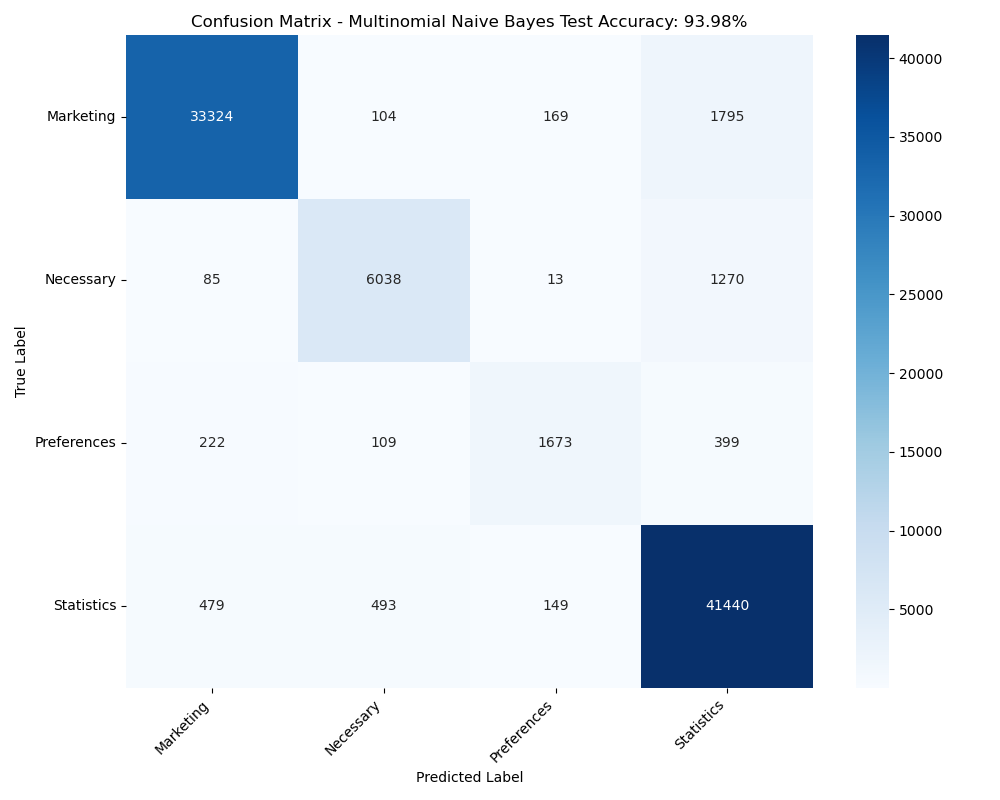
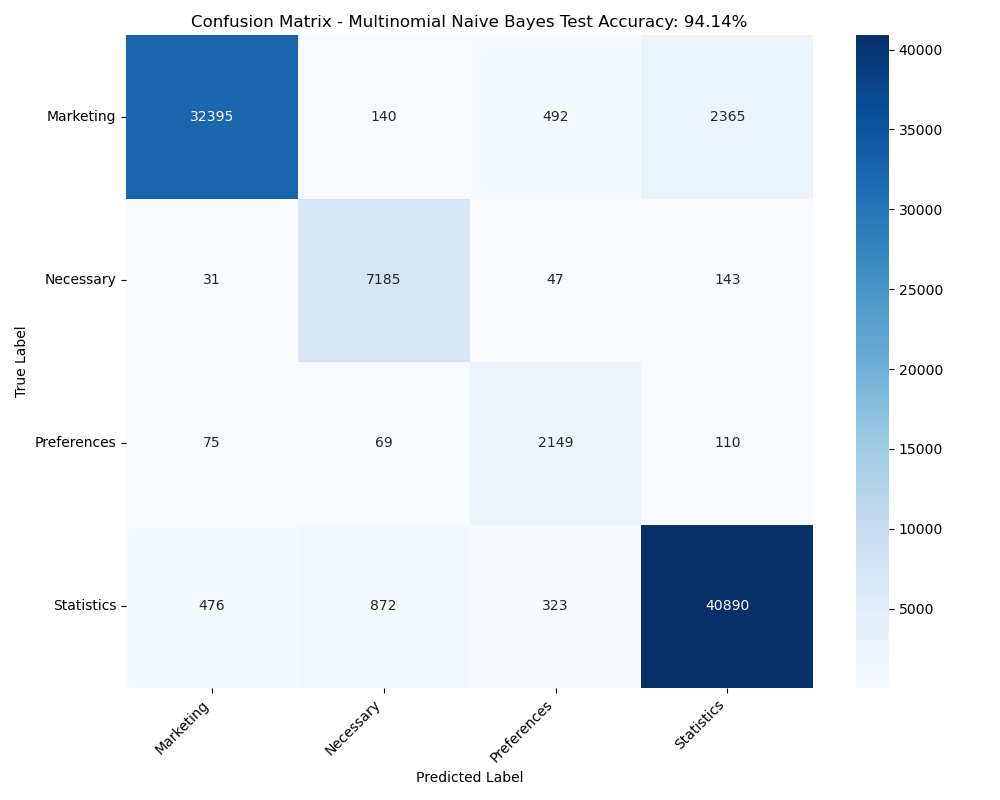
improved mnb by 0.2% with 2 tf-idf

diff --git a/cookie_classifier.py b/cookie_classifier.py
@@ -15,6 +15,8 @@ from sklearn.neural_network import MLPClassifier
 from sklearn.calibration import CalibratedClassifierCV
 from sklearn.feature_selection import SelectKBest, chi2
 from sklearn.decomposition import TruncatedSVD
+from scipy.sparse import hstack
+
 
 rows = []
 with open('classified_cookies.csv', 'r', encoding='utf-8', errors='replace') as f:
@@ -92,7 +94,10 @@ X_test_encoded = tfidf.transform(X_test_text)
 
 print("TF-IDF shape:", X_train_encoded.shape)
 
-
+print(X_train_encoded.dtype)
+X_train_encoded_32 = X_train_encoded.astype("float32")
+print(X_train_encoded_32.dtype)
+X_test_encoded_32 = X_test_encoded.astype("float32")
 
 def evaluate_model(model_name, y_true, y_pred, train_pred):
     train_acc = accuracy_score(y_train, train_pred)
@@ -409,25 +414,44 @@ def evaluate_model(model_name, y_true, y_pred, train_pred):
 # abc_test_pred = abc.predict(X_test_encoded)
 # evaluate_model("Ada Boost Classifier", y_test, abc_test_pred, abc_train_pred)
 
-# print("\n" + "="*80)
-# print("TRYING: Multinomial Naive Bayes")
-# print("="*80)
+print("\n" + "="*80)
+print("TRYING: Multinomial Naive Bayes")
+print("="*80)
 
-# # 93,98%
+# # 94.14%
 
-# selector_mnb = SelectKBest(chi2, k=18500)
-# X_train_small_mnb = selector_mnb.fit_transform(X_train_encoded, y_train)
-# X_test_small_mnb = selector_mnb.transform(X_test_encoded)
+word_vec = TfidfVectorizer(ngram_range=(1,2), min_df=3, sublinear_tf=True)
+char_vec = TfidfVectorizer(analyzer="char_wb", ngram_range=(3,6), min_df=10, sublinear_tf=True)
 
-# mnb = MultinomialNB(alpha=1e-9)
-# mnb.fit(X_train_small_mnb, y_train)
-# mnb_train_pred = mnb.predict(X_train_small_mnb)
-# mnb_test_pred = mnb.predict(X_test_small_mnb)
-# evaluate_model("Multinomial Naive Bayes", y_test, mnb_test_pred, mnb_train_pred)
+Xtr_w = word_vec.fit_transform(X_train_text)
+Xte_w = word_vec.transform(X_test_text)
+
+Xtr_c = char_vec.fit_transform(X_train_text)
+Xte_c = char_vec.transform(X_test_text)
+
+k_word = 18500         
+k_char = 8000         
+
+sel_w = SelectKBest(chi2, k=k_word)
+sel_c = SelectKBest(chi2, k=k_char)
+
+Xtr_ws = sel_w.fit_transform(Xtr_w, y_train)
+Xte_ws = sel_w.transform(Xte_w)
+
+Xtr_cs = sel_c.fit_transform(Xtr_c, y_train)
+Xte_cs = sel_c.transform(Xte_c)
+
+Xtr = hstack([Xtr_ws, Xtr_cs])
+Xte = hstack([Xte_ws, Xte_cs])
+
+clf = MultinomialNB(alpha=1e-9)
+clf.fit(Xtr, y_train)
+evaluate_model(f"Multinomial Naive Bayes", y_test, clf.predict(Xte), clf.predict(Xtr))
 
 # print("\n" + "="*80)
 # print("TRYING: Complement Naive Bayes")
 # print("="*80)
+
 # # 93,93 %%
 
 # selector_cnb = SelectKBest(chi2, k=17000)
@@ -513,71 +537,73 @@ def evaluate_model(model_name, y_true, y_pred, train_pred):
 # voting_clf = VotingClassifier(
 #     estimators=[
 #         ("lr", LogisticRegression(
-#             max_iter=3000,
+#             max_iter=5000,
 #             solver="saga",
 #             class_weight="balanced",
 #             random_state=0
 #         )),
 #         ("sgd", SGDClassifier(
 #             loss="log_loss",
-#             alpha=1e-5,
-#             class_weight="balanced",
-#             max_iter=2000,
-#             tol=1e-3,
+#             alpha=1e-7,
+#             max_iter=100,
+#             early_stopping=True,
+#             validation_fraction=0.1,
+#             n_iter_no_change=5,    
+#             class_weight={0: 3.0, 1: 2.5, 2: 1.0, 3: 1.0},
 #             random_state=0
 #         )),
-#         ("cnb", ComplementNB(alpha=0.1))
+#         ("cnb", ComplementNB(alpha=1e-8))
 #     ],
 #     voting="hard",   
-#     n_jobs=-1
+#     n_jobs=-1,
+#     verbose=10
 # )
 
-# voting_clf.fit(X_train_encoded, y_train)
-# voting_train_pred = voting_clf.predict(X_train_encoded)
-# voting_test_pred = voting_clf.predict(X_test_encoded)
+# selector_voting_clf = SelectKBest(chi2, k=10000)
+# X_train_small_voting_clf = selector_voting_clf.fit_transform(X_train_encoded_32, y_train)
+# X_test_small_voting_clf = selector_voting_clf.transform(X_test_encoded_32)
+
+# voting_clf.fit(X_train_small_voting_clf, y_train)
+# voting_train_pred = voting_clf.predict(X_train_small_voting_clf)
+# voting_test_pred = voting_clf.predict(X_test_small_voting_clf)
 # evaluate_model("Voting Classifier", y_test, voting_test_pred, voting_train_pred)
 
-print("\n" + "="*80)
-print("TRYING: MLP Classifier")
-print("="*80)
+# print("\n" + "="*80)
+# print("TRYING: MLP Classifier")
+# print("="*80)
 
-# 98,76%
+# # 98,76%
 
-mlpc = MLPClassifier(
-    hidden_layer_sizes=(200,),   
-    activation='relu', # tanh has 98,70%
-    solver='adam',              
-    alpha=1e-3,                 
-    batch_size=8192,
-    learning_rate_init=0.01,
-    max_iter=200,
-    verbose=10,
-    early_stopping=True,
-    validation_fraction=0.1,
-    beta_1=0.9,
-    epsilon=1e-8,    
-    n_iter_no_change=10,
-    random_state=42,
-)
+# mlpc = MLPClassifier(
+#     hidden_layer_sizes=(200,),   
+#     activation='relu', # tanh has 98,70%
+#     solver='adam',              
+#     alpha=1e-3,                 
+#     batch_size=8192,
+#     learning_rate_init=0.01,
+#     max_iter=200,
+#     verbose=10,
+#     early_stopping=True,
+#     validation_fraction=0.1,
+#     beta_1=0.9,
+#     epsilon=1e-8,    
+#     n_iter_no_change=10,
+#     random_state=42,
+# )
 
-mlp_label_encoder = LabelEncoder()
-y_train_mlp = mlp_label_encoder.fit_transform(y_train)
+# mlp_label_encoder = LabelEncoder()
+# y_train_mlp = mlp_label_encoder.fit_transform(y_train)
 
-print(X_train_encoded.dtype)
-X_train_encoded_32 = X_train_encoded.astype("float32")
-print(X_train_encoded_32.dtype)
-X_test_encoded_32 = X_test_encoded.astype("float32")
+# # selector_mlp = SelectKBest(chi2, k=8000)
+# # X_train_small_mlp = selector_mlp.fit_transform(X_train_encoded, y_train)
+# # X_test_small_mlp = selector_mlp.transform(X_test_encoded)
 
-# selector_mlp = SelectKBest(chi2, k=8000)
-# X_train_small_mlp = selector_mlp.fit_transform(X_train_encoded, y_train)
-# X_test_small_mlp = selector_mlp.transform(X_test_encoded)
-
-mlpc.fit(X_train_encoded_32, y_train_mlp)
-mlpc_train_pred_int = mlpc.predict(X_train_encoded_32)
-mlpc_test_pred_int = mlpc.predict(X_test_encoded_32)
-mlpc_train_pred = mlp_label_encoder.inverse_transform(mlpc_train_pred_int)
-mlpc_test_pred = mlp_label_encoder.inverse_transform(mlpc_test_pred_int)
-evaluate_model("MLP Classifier", y_test, mlpc_test_pred, mlpc_train_pred)
+# mlpc.fit(X_train_encoded_32, y_train_mlp)
+# mlpc_train_pred_int = mlpc.predict(X_train_encoded_32)
+# mlpc_test_pred_int = mlpc.predict(X_test_encoded_32)
+# mlpc_train_pred = mlp_label_encoder.inverse_transform(mlpc_train_pred_int)
+# mlpc_test_pred = mlp_label_encoder.inverse_transform(mlpc_test_pred_int)
+# evaluate_model("MLP Classifier", y_test, mlpc_test_pred, mlpc_train_pred)
 
 # print("\n" + "="*80)
 # print("TRYING: LightGBM Classifier")

diff --git a/README.md b/README.md
@@ -241,7 +241,7 @@ You can find the generated confusion matrices here:
 - [KNN](confusion_matrix_KNN.pdf)
 - [KNN With Inverse Class Weighting](confusion_matrix_KNN_WITH_INVERSE_CLASS_WEIGHTING.pdf)
 - [Logistic Regression](confusion_matrix_Logistic_Regression_Balanced.pdf)
-- [Logistic Regression With Manual Weights)](confusion_matrix_Logistic_Regression_Manual_Weights.pdf)
+- [Logistic Regression With Manual Weights](confusion_matrix_Logistic_Regression_Manual_Weights.pdf)
 - [SGD Classifier](confusion_matrix_SGD_Classifier.pdf)
 - [Passive Aggressive Classifier](confusion_matrix_Passive_Aggressive_Classifier.pdf)
 - [LinearSVC](confusion_matrix_LinearSVC.pdf)
@@ -262,7 +262,7 @@ You can find the generated confusion matrices here:
 - [Ridge CLassifier](confusion_matrix_Ridge_CLassifier.pdf)
 - [Ridge CLassifier With Manual Weights](confusion_matrix_Ridge_CLassifier_With_Manual_Weights.pdf)
 - [Ridge Classifier CV](confusion_matrix_Ridge_Clasifier_CV.pdf)
-- [Ridge Classifier CV With Manual Weights](confusion_matrix_Ridge_Classifier_CV_With_Manual_Weights.pdf)
+- [Ridge Classifier CV With Manual Weights](confusion_matrix_Ridge_Clasifier_CV_With_Manual_Weights.pdf)
 - [Stacking Classifier](confusion_matrix_Stacking_Classifier.pdf)
 - [Voting Classifier](confusion_matrix_Voting_Classifier.pdf)
 - [Calibrated Classifier CV](confusion_matrix_Calibrated_Classifier_CV.pdf)
@@ -277,13 +277,13 @@ You can find the generated confusion matrices here:
 
 ![KNN With Inverse Class Weighting](confusion_matrix_KNN_WITH_INVERSE_CLASS_WEIGHTING.png)
 
+#### Logistic Regression
+
+![Logistic Regression](confusion_matrix_Logistic_Regression_Balanced.png)
+
 #### Logistic Regression (Manual Weights)
 
 ![Logistic Regression (Manual Weights)](confusion_matrix_Logistic_Regression_Manual_Weights.png)
-
-#### Logistic Regression (Balanced)
-
-![Logistic Regression (Balanced)](confusion_matrix_Logistic_Regression_Balanced.png)
 
 #### SGD Classifier
 
@@ -366,7 +366,7 @@ You can find the generated confusion matrices here:
 
 #### Ridge Classifier CV With Manual Weights
 
-![Ridge Classifier CV With Manual Weights](confusion_matrix_Ridge_Classifier_CV_With_Manual_Weights.png)
+![Ridge Classifier CV With Manual Weights](confusion_matrix_Ridge_Clasifier_CV_With_Manual_Weights.png)
 
 #### Stacking Classifier
 
@@ -378,7 +378,8 @@ You can find the generated confusion matrices here:
 
 #### Calibrated Classifier CV
 
-![Calibrated Classifier CV](confusion_matrix_Calibrated_Classifier_CV.pdf)
+![Calibrated Classifier CV](confusion_matrix_Calibrated_Classifier_CV.png)
+
 
 ### How to read the confusion matrix values
 
